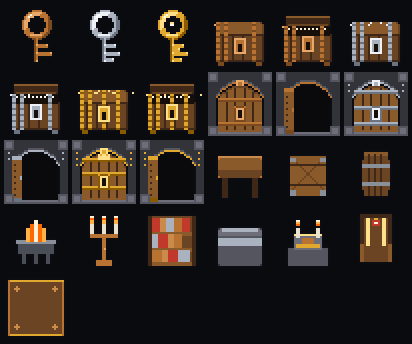
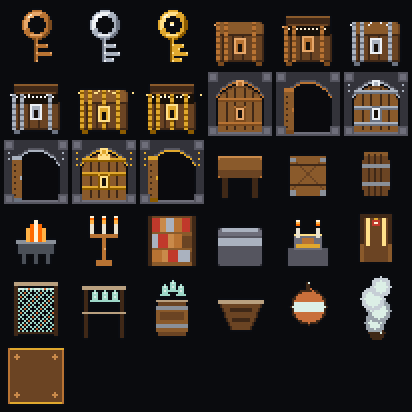
LIV-100: fishing-village prop art (nets, racks, barrels, boats, buoys, smoke)
Author six 32x32 indexed-pixel props (net, drying rack, fish barrel, boat,
buoy, smoke plume), register them in the manifest + PROP_CATALOG/PROP_IDS_BY_KIND,
and regenerate the committed props preview. Passes tools/validate-prop-assets.mjs.

diff --git a/html/assets/sprites/props.js b/html/assets/sprites/props.js
@@ -28,6 +28,12 @@ import propBookshelf from './props/prop_bookshelf.json' with { type: 'json' };
 import propSarcophagus from './props/prop_sarcophagus.json' with { type: 'json' };
 import propAltar from './props/prop_altar.json' with { type: 'json' };
 import propThrone from './props/prop_throne.json' with { type: 'json' };
+import propNet from './props/prop_net.json' with { type: 'json' };
+import propDryingRack from './props/prop_drying_rack.json' with { type: 'json' };
+import propFishBarrel from './props/prop_fish_barrel.json' with { type: 'json' };
+import propBoat from './props/prop_boat.json' with { type: 'json' };
+import propBuoy from './props/prop_buoy.json' with { type: 'json' };
+import propSmokePlume from './props/prop_smoke_plume.json' with { type: 'json' };
 import decorRug from './decor/decor_rug.json' with { type: 'json' };
 
 export const PROP_MANIFEST = manifest.props;
@@ -53,12 +59,20 @@ export const PROP_CATALOG = {
   prop_sarcophagus: propSarcophagus,
   prop_altar: propAltar,
   prop_throne: propThrone,
+  // LIV-100 fishing-village props. Flat `idle` frame map, same pipeline;
+  // placement comes from the scene catalogs (towns.json/islands.json `props[]`).
+  prop_net: propNet,
+  prop_drying_rack: propDryingRack,
+  prop_fish_barrel: propFishBarrel,
+  prop_boat: propBoat,
+  prop_buoy: propBuoy,
+  prop_smoke_plume: propSmokePlume,
   decor_rug: decorRug,
 };
 
 /** Furniture/decor ids grouped by `kind`, for data-driven placement lookups. */
 export const PROP_IDS_BY_KIND = {
-  prop: ['prop_table', 'prop_crate', 'prop_barrel', 'prop_brazier', 'prop_candelabra', 'prop_bookshelf', 'prop_sarcophagus', 'prop_altar', 'prop_throne'],
+  prop: ['prop_table', 'prop_crate', 'prop_barrel', 'prop_brazier', 'prop_candelabra', 'prop_bookshelf', 'prop_sarcophagus', 'prop_altar', 'prop_throne', 'prop_net', 'prop_drying_rack', 'prop_fish_barrel', 'prop_boat', 'prop_buoy', 'prop_smoke_plume'],
   decor: ['decor_rug'],
 };
 
